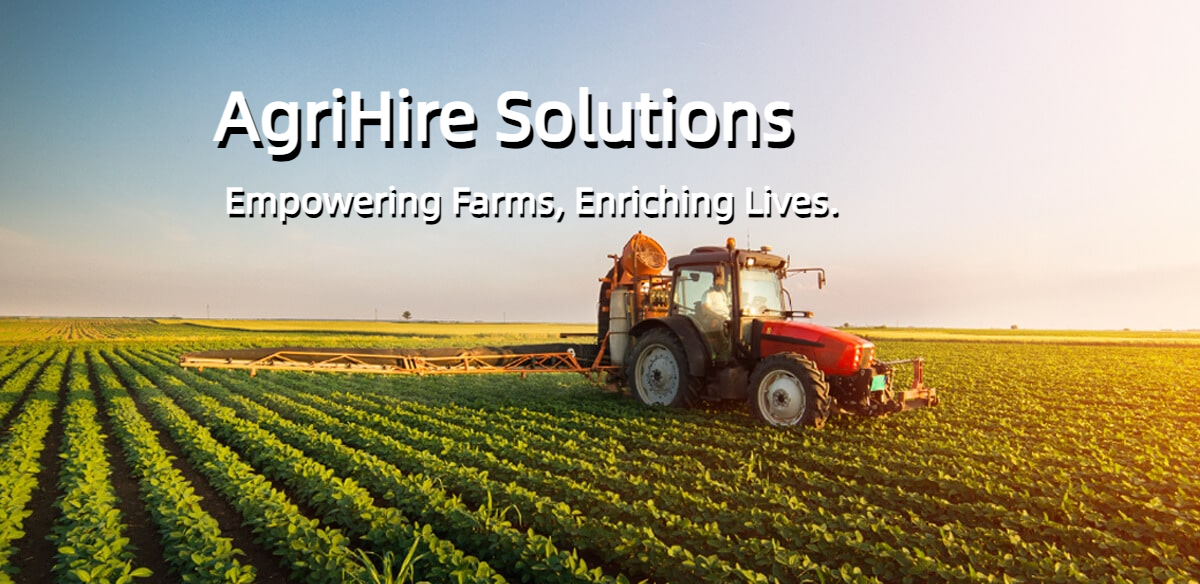
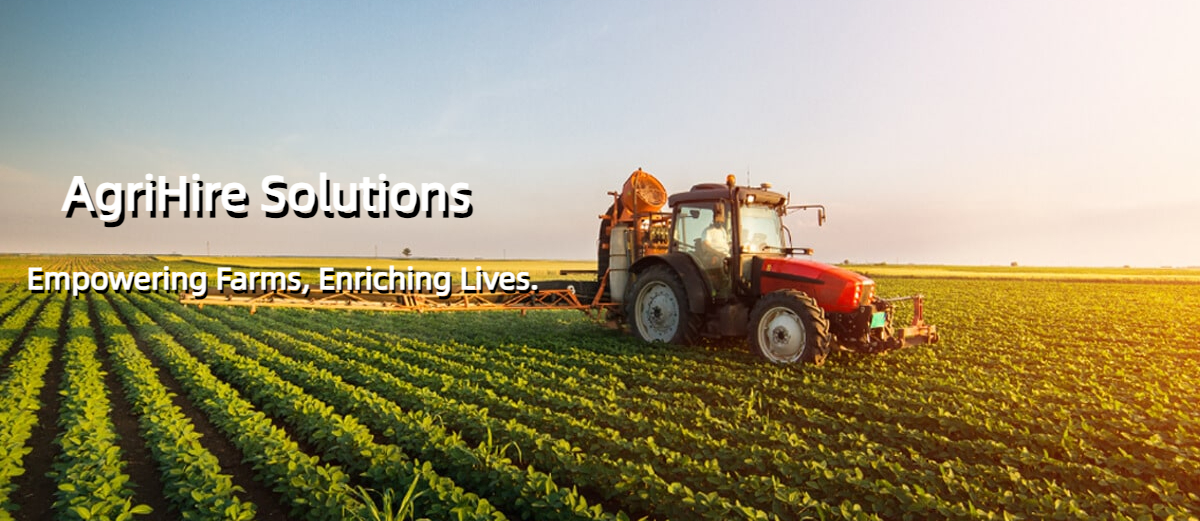
modify index
modify index

diff --git a/app/templates/index.html b/app/templates/index.html
@@ -167,20 +167,20 @@
     </script>
     <!-- hero section start -->
     <!-- Section: Hero -->
-<section id="hero" class="position-relative overflow-hidden" style="height: 100vh;"> <!-- 设置高度为视口高度 -->
-  <div class="container-fluid p-0"> <!-- 使用 container-fluid 并去除内边距 -->
-    <div class="row justify-content-center m-0"> <!-- 去除默认的外边距 -->
-      <div class="col-12 p-0"> <!-- 使用全部12个格子并去除内边距 -->
-        <!-- Image: 绝对定位覆盖整个section -->
-        <img src="static/banner7.jpg" 
-     class="img-fluid" 
-     style="position: absolute; top: 0; left: 0; width: 100%; height: 100%; object-fit: cover; object-position: center center;" 
-     alt="Banner Image">
-
+    <section id="hero" class="position-relative overflow-hidden" style="height: 55vh;"> 
+      <div class="container-fluid p-0"> <!-- 使用 container-fluid 并去除内边距 -->
+        <div class="row justify-content-center m-0"> <!-- 去除默认的外边距 -->
+          <div class="col-12 p-0"> <!-- 使用全部12个格子并去除内边距 -->
+            <!-- Image: 绝对定位，高度调整为与section一致 -->
+            <img src="static/banner7.jpg" 
+                 class="img-fluid" 
+                 style="position: absolute; top: 0; left: 0; width: 100%; height: 100%; object-fit: cover; object-position: center center;" 
+                 alt="Banner Image">
+          </div>
+        </div>
       </div>
-    </div>
-  </div>
-</section>
+    </section>
+    
 
 
     <!-- process section start  -->
